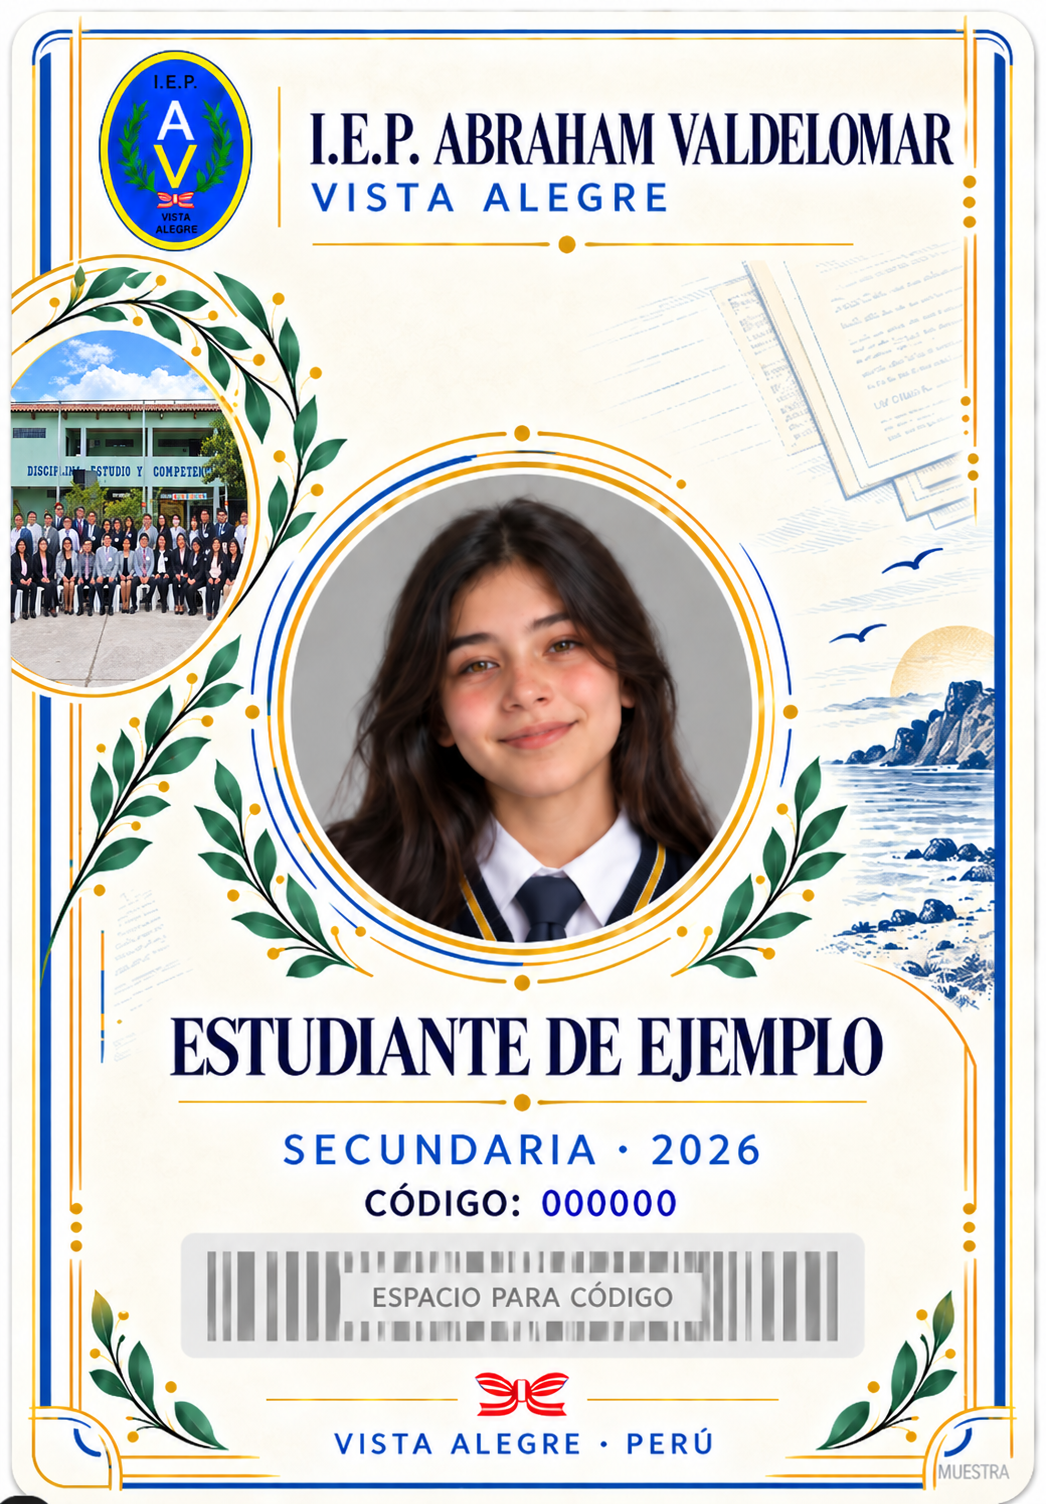
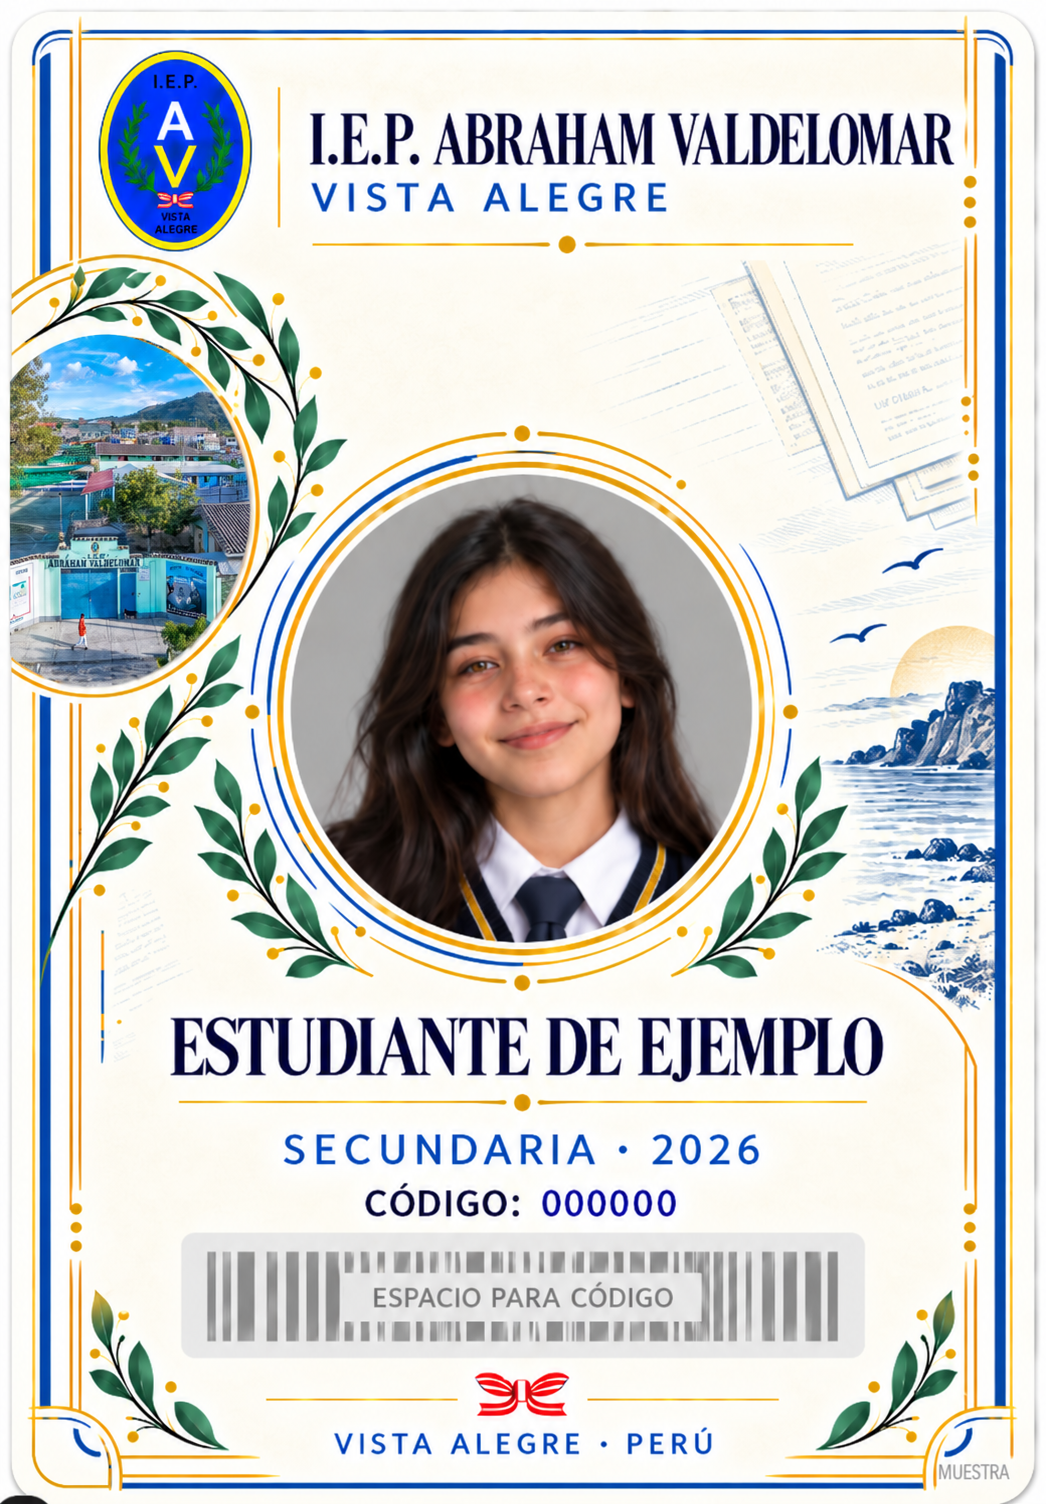
fix: actualizar carnet de login y ajustar su tama?o
Usa la imagen nueva de Abraham Valdelomar y alinea el marco del esc?ner.

diff --git a/src/index.css b/src/index.css
@@ -694,7 +694,7 @@
   .login-hero-visual,
   .login-carnet-scene {
     @apply relative w-full mx-auto;
-    width: min(100%, 380px);
+    width: min(100%, 364px);
     filter: drop-shadow(0 24px 48px hsl(var(--login-deep) / 0.55));
   }
 
@@ -725,19 +725,20 @@
 
   .login-carnet-scene__frame {
     @apply relative w-full;
-    min-height: 360px;
+    min-height: 0;
     will-change: transform, opacity;
   }
 
   .login-carnet-scanner {
     @apply relative mx-auto flex flex-col items-center;
-    width: min(100%, 272px);
-    padding: 0.75rem 0.5rem 0.25rem;
+    width: min(100%, 301px);
+    padding: 0.5rem;
     perspective: 1100px;
   }
 
   .login-carnet-scanner__frame {
-    @apply pointer-events-none absolute inset-x-1 top-1 bottom-14;
+    @apply pointer-events-none absolute;
+    inset: 0.15rem;
   }
 
   .login-carnet-scanner__corner {
@@ -1012,7 +1013,7 @@
   .login-carnet-card {
     @apply relative mx-auto rounded-[1.35rem] border;
     width: 100%;
-    max-width: 272px;
+    max-width: none;
     border-color: hsl(var(--login-glow) / 0.45);
     background: transparent;
     box-shadow:
@@ -1023,31 +1024,34 @@
   }
 
   .login-carnet-replica {
-    min-height: 372px;
+    min-height: 0;
     transform-style: preserve-3d;
     transform-origin: center center;
   }
 
   /* Carnet de ejemplo IEP Abraham Valdelomar en login */
   .login-carnet-replica--photo {
-    max-width: min(280px, 72vw);
+    max-width: none;
     min-height: 0;
     border: none;
     background: transparent;
     box-shadow:
       0 0 48px hsl(var(--login-glow) / 0.18),
       0 28px 56px hsl(var(--login-deep) / 0.55);
-    overflow: hidden;
-    border-radius: 1.15rem;
+    overflow: visible;
+    border-radius: 1.5rem;
   }
 
   .login-carnet-replica__photo-card {
     @apply relative w-full;
+    line-height: 0;
   }
 
   .login-carnet-replica__photo-card-img {
-    @apply block h-auto w-full object-contain;
-    border-radius: 1.15rem;
+    @apply block h-auto w-full;
+    object-fit: contain;
+    object-position: center;
+    border-radius: 1.35rem;
   }
 
   .login-carnet-replica__flip {

diff --git a/src/hooks/useLoginAmbientAnimation.ts b/src/hooks/useLoginAmbientAnimation.ts
@@ -42,12 +42,7 @@ export function useLoginAmbientAnimation(scopeRef: RefObject<HTMLElement | null>
 
       /* ── Levitación del carnet (suave, tras la entrada) ─────── */
       toIf('[data-login-visual-card]', {
-        y: -10, duration: 3.8, ease: 'sine.inOut', yoyo: true, repeat: -1, delay: IDLE_DELAY,
-      });
-
-      /* ── Inclinación 3D muy sutil en idle ───────────────────── */
-      toIf('[data-login-visual-card]', {
-        rotationZ: 0.8, duration: 6, ease: 'sine.inOut', yoyo: true, repeat: -1, delay: IDLE_DELAY,
+        y: -8, duration: 3.8, ease: 'sine.inOut', yoyo: true, repeat: -1, delay: IDLE_DELAY,
       });
 
       /* ── Halos / anillos (respiración lenta) ────────────────── */
@@ -103,10 +98,10 @@ export function useLoginAmbientAnimation(scopeRef: RefObject<HTMLElement | null>
       const onMove = contextSafe((e: MouseEvent) => {
         const nx = e.clientX / window.innerWidth  - 0.5;
         const ny = e.clientY / window.innerHeight - 0.5;
-        visualX?.(nx * 8);
-        visualY?.(ny * 5);
-        cardRY?.(nx * 7);
-        cardRX?.(-ny * 5);
+        visualX?.(nx * 5);
+        visualY?.(ny * 3);
+        cardRY?.(nx * 4);
+        cardRX?.(-ny * 3);
       });
 
       /* Activa el parallax solo cuando la entrada ya asentó las rotaciones. */

diff --git a/src/components/login/LoginHeroIllustration.tsx b/src/components/login/LoginHeroIllustration.tsx
@@ -1,6 +1,6 @@
 import { SCHOOL_NAME } from '@/config/siteSeo';
 
-const CARNET_SRC = '/carnet-abraham.png';
+const CARNET_SRC = '/carnet-abraham.png?v=2';
 
 /**
  * Carnet de ejemplo del IEP Abraham Valdelomar en la escena de login
